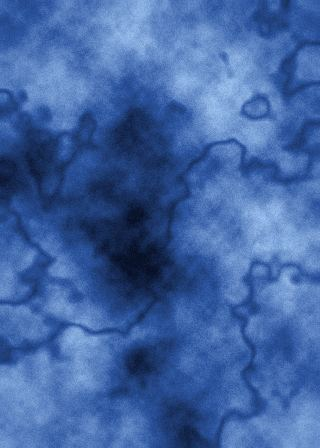
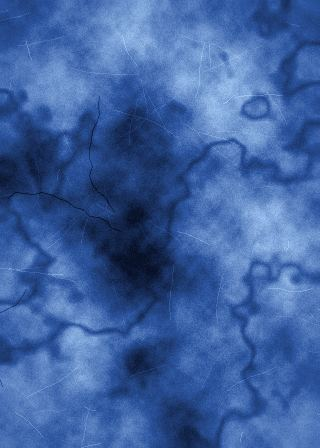
Karten rauer: Kratzer, Haarrisse und Eckenschmutz im Rahmen, stärkerer Druck-Look auf den Bildern
Claude-Session: https://claude.ai/code/session_014tgk4fXUzNg9WHp7MtoqqE

Changed region(s): [[0.875, 0.9062, 1.0, 1.0], [0.0, 0.9062, 0.0938, 1.0], [0.0, 0.8438, 0.0312, 0.875]]

diff --git a/src/card.css b/src/card.css
@@ -50,9 +50,10 @@
   background: radial-gradient(circle at 50% 40%, color-mix(in srgb, var(--cc) 40%, #1a1410), #070504);
   border: var(--bev) solid; border-color: #000000b0 #ffffff50 #ffffff50 #000000b0; box-shadow: 0 0 0 1px #000;
 }
-.card .c-art img { width: 100%; height: 100%; object-fit: cover; display: block; filter: contrast(1.1) saturate(.82) sepia(.12) brightness(.96); }
+.card .c-art img { width: 100%; height: 100%; object-fit: cover; display: block; filter: contrast(1.16) saturate(.7) sepia(.22) brightness(.93); }
 .card .c-art::after { content: ''; position: absolute; inset: 0; pointer-events: none; box-shadow: inset 0 0 calc(var(--cw) * .05) #000c;
-  background: radial-gradient(ellipse at 50% 45%, transparent 55%, #1a0e0466); }
+  background: url(../tex/grain.png) 0 0 / calc(var(--cw) * .45), url(../tex/grain.png) 37% 61% / calc(var(--cw) * .7),
+    radial-gradient(ellipse at 50% 45%, transparent 50%, #1a0e0488), linear-gradient(#3a240c18, #3a240c18); }
 .card .c-art .noart { color: #ffffff20; }
 
 /* Typzeile mit Seltenheitsstein rechts */
